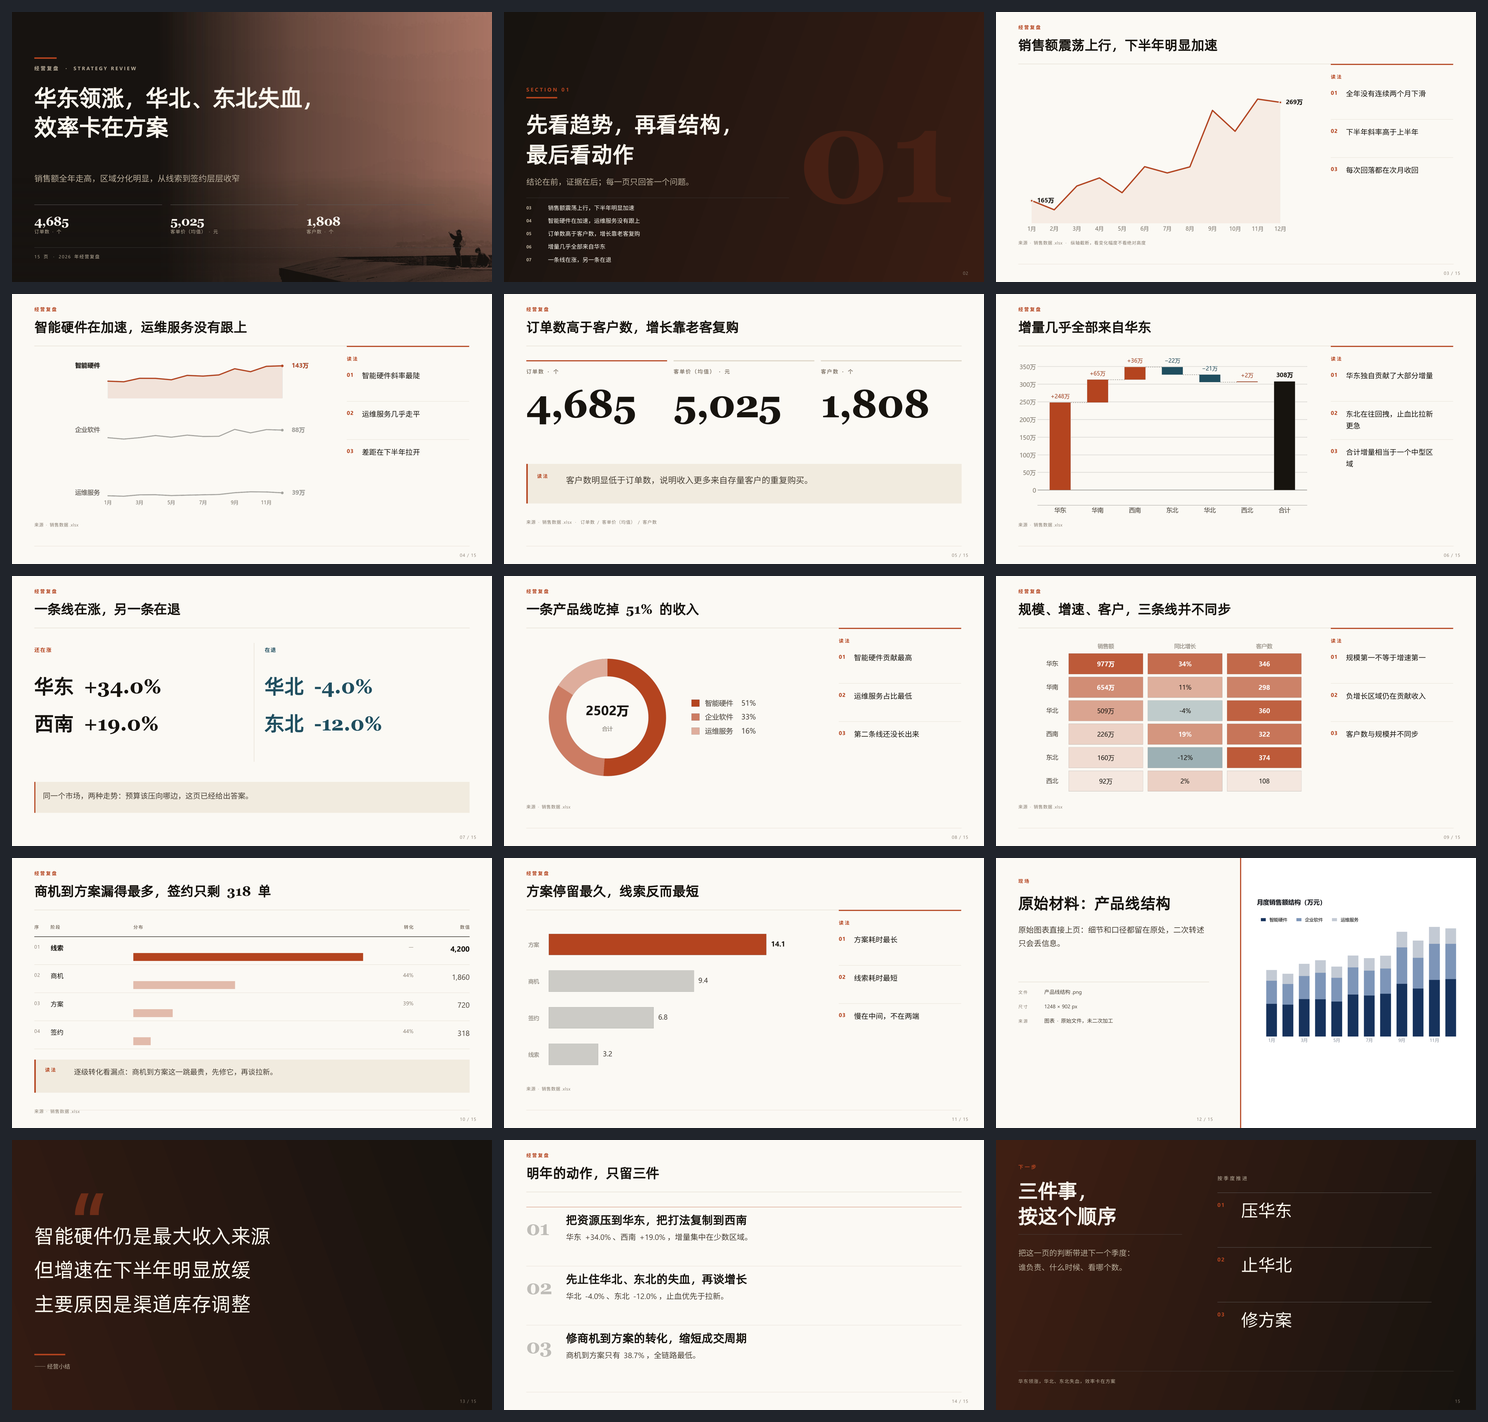
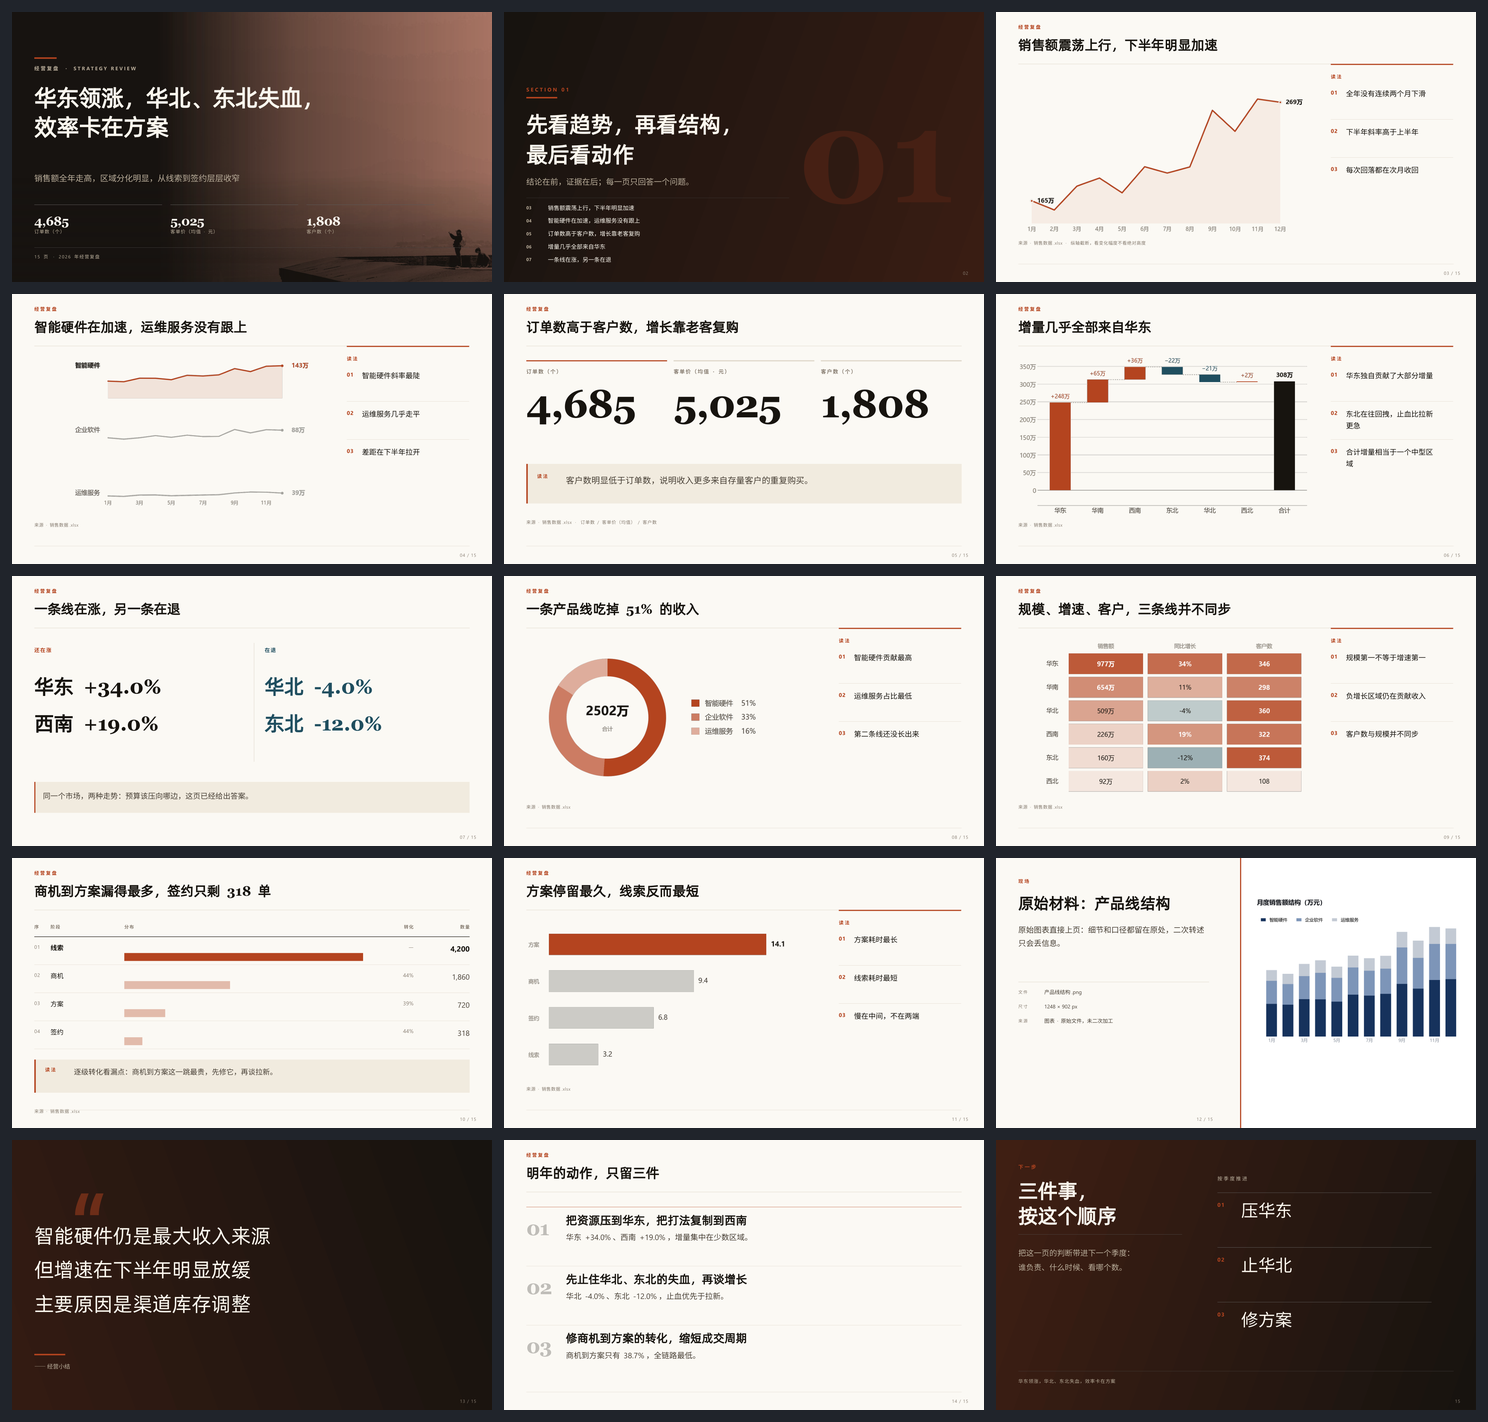
tables: two measures side by side, and a KPI footnote that carries its share

diff --git a/app/static/index.html b/app/static/index.html
@@ -773,7 +773,8 @@ async function pickIdea(idea){
   busy(true, '按这个角度重排', idea.title);
   try{
     const res = await fetch('/api/plan', {method:'POST', headers:{'Content-Type':'application/json'},
-      body: JSON.stringify({deck_title: idea.title, subtitle: idea.why, brief: idea.angle})});
+      body: JSON.stringify({deck_title: idea.title, subtitle: "",
+                            brief: `${idea.angle} ${idea.why}`})});
     const d = await res.json();
     if(!res.ok){ busy(false); toast(d.detail || '重排失败'); return; }
     apply(d); busy(false); toast('按这个角度排好了');

diff --git a/deck/render2.py b/deck/render2.py
@@ -188,6 +188,27 @@ def _wrap_clauses(text: str, width, size_pt: float) -> str:
     return "\n".join(out)
 
 
+def _top_note(f: Fact) -> str:
+    """A top name alone is trivia; a top name with its share is a finding."""
+    if not f.top:
+        return ""
+    vals = dict(f.points or [])
+    total = sum(abs(v) for v in vals.values()) or 0.0
+    share = abs(vals.get(f.top, 0.0)) / total if total else 0.0
+    return f"最高 {f.top} · {share:.0%}" if 0 < share < 0.95 else f"最高 {f.top}"
+
+
+def _label_unit(f: Fact) -> str:
+    """「销售额 · 区域（元）」reads; 「销售额 · 区域 · 元」is a parts list."""
+    unit = _unit(f)
+    if not unit:
+        return f.label
+    # 「客单价（均值）（元）」is two brackets in a row; fold the unit inside.
+    if f.label.endswith("）"):
+        return f"{f.label[:-1]} · {unit}）"
+    return f"{f.label}（{unit}）"
+
+
 def _value(v: float, unit: str | None) -> str:
     if unit == "ratio":
         return f"{v * 100:.1f}%"
@@ -272,7 +293,7 @@ def cover(prs, plan: Plan, s: Slide, facts: dict[str, Fact], theme: Theme,
                      color=_rgb(theme.dark_ink), bold=True, font="headline",
                      spacing=-0.8, wrap=False)
             add_text(slide, x, Inches(5.98), width - Inches(0.30), Inches(0.26),
-                     f"{f.label} · {_unit(f)}", theme, size=Pt(9.5),
+                     _label_unit(f), theme, size=Pt(9.5),
                      color=_rgb(theme.dark_muted), spacing=0.8)
 
     add_rect(slide, MARGIN_X, Inches(6.54), CONTENT_W, Emu(6350),
@@ -523,7 +544,7 @@ def kpi(prs, plan: Plan, s: Slide, facts: dict[str, Fact], theme: Theme,
         rule = _rgb(theme.accent if i == 0 else theme.hair)
         add_rect(slide, x, Inches(1.84), width, Emu(28575), rule)
         add_text(slide, x, Inches(2.02), width - Inches(0.20), Inches(0.24),
-                 f"{f.label} · {_unit(f)}", theme, size=Pt(10.5),
+                 _label_unit(f), theme, size=Pt(10.5),
                  color=_rgb(theme.muted), bold=True, spacing=1.6)
         number = f.number or f.value
         size = _num_fit(number, width - Inches(0.12), 78, 40)
@@ -535,7 +556,7 @@ def kpi(prs, plan: Plan, s: Slide, facts: dict[str, Fact], theme: Theme,
                      f"同比 {fmt.signed_pct(f.change)}", theme, size=Pt(12),
                      color=_rgb(theme.negative if f.change < 0 else theme.accent),
                      bold=True)
-        foot = f"最高 {f.top}" if f.top else ""
+        foot = _top_note(f)
         if foot:
             add_text(slide, x, Inches(3.98), width, Inches(0.30),
                      foot, theme, size=Pt(10.5), color=_rgb(theme.muted))
@@ -727,13 +748,22 @@ def table(prs, plan: Plan, s: Slide, facts: dict[str, Fact], theme: Theme,
     # six-row table from pushing its own reading band over the source line.
     row_h = Inches(min(0.82, max(0.46, (5.30 - 2.18) / max(len(pts), 1))))
     header_h = Inches(0.38)
-    col_rank, col_name, col_bar = 0.45, 2.30, 5.85
+    # A second measure turns "东北客户数第一" into "客户数第一、销售额第五":
+    # the claim on the slide becomes checkable on the same slide.
+    extra = facts.get(ids[1]) if len(ids) > 1 else None
+    if extra is not None:
+        names = {k for k, _ in f.points}
+        if not extra.points or any(k not in names for k, _ in extra.points):
+            extra = None
+    col_rank, col_name, col_bar = 0.45, 2.05, 4.55
     # A conversion column only means something when the rows are stages of one
     # funnel. On a ranked breakdown it turns "second biggest / biggest" into a
     # fake 96% and invites the reader to read a story that is not there.
     funnel = (f.chart == "funnel")
     col_conv = 0.95 if funnel else 0.0
     col_val, col_gap = 1.30, 0.26
+    col_extra = 1.32 if extra is not None else 0.0
+    val_x = x0 + Inches(w / PX - col_val - col_extra - (0.16 if extra is not None else 0))
 
     def cell(x, top, width, text, *, size=13, color=None, bold=False, align="left"):
         add_text(slide, x, top, width, Inches(0.30), text, theme, size=Pt(size),
@@ -753,9 +783,16 @@ def table(prs, plan: Plan, s: Slide, facts: dict[str, Fact], theme: Theme,
         add_text(slide, conv_x, y, Inches(col_conv),
                  header_h, "转化", theme, size=Pt(9), color=_rgb(theme.muted),
                  bold=True, align="right", spacing=1.2)
-    add_text(slide, x0 + Inches(w / PX - col_val), y, Inches(col_val), header_h,
-             "数值", theme, size=Pt(9), color=_rgb(theme.muted), bold=True,
+    # "数值" beside "客户数" is a riddle; name the measure the bars encode.
+    vhead = ((f.column or f.label) or "").split("按")[0].strip() or "数值"
+    add_text(slide, val_x, y, Inches(col_val), header_h,
+             vhead[:6], theme, size=Pt(9), color=_rgb(theme.muted), bold=True,
              align="right", spacing=1.2)
+    if extra is not None:
+        head2 = ((extra.column or extra.label) or "").split("按")[0].strip() or "另一项"
+        add_text(slide, x0 + Inches(w / PX - col_extra), y, Inches(col_extra),
+                 header_h, head2[:6], theme, size=Pt(9), color=_rgb(theme.muted),
+                 bold=True, align="right", spacing=1.2)
 
     y += header_h
     add_rect(slide, x0, y, w, Emu(12700), _rgb(theme.ink))
@@ -765,7 +802,7 @@ def table(prs, plan: Plan, s: Slide, facts: dict[str, Fact], theme: Theme,
     # Let the bars run all the way to the conversion column: a funnel that only
     # fills 60% of its track reads as timid.
     bar_w = (conv_x - bar_x - Inches(0.45)) if funnel else \
-        (x0 + Inches(w / PX - col_val - col_gap) - bar_x - Inches(0.45))
+        (val_x - Inches(col_gap) - bar_x - Inches(0.30))
     has_neg = any(v < 0 for _, v in pts)
 
     for i, (name, v) in enumerate(pts, 1):
@@ -794,10 +831,16 @@ def table(prs, plan: Plan, s: Slide, facts: dict[str, Fact], theme: Theme,
             add_text(slide, conv_x, top - Inches(0.03),
                      Inches(col_conv), Inches(0.30), conv, theme, size=Pt(11),
                      color=_rgb(theme.muted), align="right")
-        add_text(slide, x0 + Inches(w / PX - col_val), top - Inches(0.03),
+        add_text(slide, val_x, top - Inches(0.03),
                  Inches(col_val), Inches(0.30), _value(v, f.unit),
                  theme, size=Pt(15), color=_rgb(theme.ink if i == 1 else theme.ink2),
                  bold=(i == 1), align="right")
+        if extra is not None:
+            v2 = dict(extra.points).get(name)
+            add_text(slide, x0 + Inches(w / PX - col_extra), top - Inches(0.03),
+                     Inches(col_extra), Inches(0.30),
+                     _value(v2, extra.unit) if v2 is not None else "—",
+                     theme, size=Pt(13), color=_rgb(theme.ink2), align="right")
         y += row_h
         add_rect(slide, x0, y, w, Emu(6350), _rgb(theme.hair))
 

diff --git a/tests/test_qa.py b/tests/test_qa.py
@@ -66,3 +66,40 @@ class RenderTest(unittest.TestCase):
 
 if __name__ == "__main__":
     unittest.main()
+
+
+DATA = Path(__file__).resolve().parent.parent / "samples" / "data"
+
+
+class TwoMeasureTableTest(unittest.TestCase):
+    """A comparison claim needs both numbers on the page."""
+
+    @classmethod
+    def setUpClass(cls) -> None:
+        from deck import ingest, compute
+        cls.bundle = ingest.load(DATA)
+        cls.facts = compute.extract(cls.bundle)
+
+    def test_second_fact_becomes_a_column(self):
+        import tempfile
+        from pathlib import Path
+        from deck.plan import Plan, Slide
+        from pptx import Presentation
+        money = next(f for f in self.facts if f.unit == "money" and len(f.points) >= 4)
+        count = next(f for f in self.facts if f.unit == "count" and len(f.points) >= 4
+                     and {k for k, _ in f.points} == {k for k, _ in money.points})
+        plan = Plan(deck_title="d", subtitle="", slides=[
+            Slide(layout="table", title="两边一起看", fact=f"{money.id},{count.id}"),
+            Slide(layout="closing", title="收尾", bullets=["一", "二"]),
+        ])
+        with tempfile.TemporaryDirectory() as td:
+            out = Path(td) / "d.pptx"
+            from deck import render2
+            render2.build(plan, self.facts, {}, out, theme="editorial")
+            prs = Presentation(str(out))
+            text = "\n".join(sh.text_frame.text for sl in prs.slides
+                             for sh in sl.shapes if sh.has_text_frame)
+        vhead = (money.column or money.label).split("按")[0].strip()[:6]
+        self.assertIn(vhead, text)
+        head = (count.column or count.label).split("按")[0].strip()[:6]
+        self.assertIn(head, text)

diff --git a/deck/review.py b/deck/review.py
@@ -77,6 +77,27 @@ def _fact_slides(slides: list[Slide], facts: list[Fact]) -> list[Finding]:
     return out
 
 
+def _fact_reuse(slides: list[Slide]) -> list[Finding]:
+    """One fact can carry a page; it cannot carry the deck.
+
+    A model that binds region sales to a KPI, a bar chart and a screenshot of
+    the same chart has written three pages and said one thing. Two is the
+    limit: a headline number may legitimately return in the close.
+    """
+    seen: dict[str, list[int]] = {}
+    for i, s in enumerate(slides, 1):
+        for fid in [p for p in (s.fact or "").replace(" ", "").split(",") if p]:
+            seen.setdefault(fid, []).append(i)
+    out: list[Finding] = []
+    for fid, pages in seen.items():
+        if len(pages) > 2:
+            out.append(Finding(
+                "warn", pages[2],
+                f"{fid} 已经出现在第 {'、'.join(map(str, pages[:2]))} 页，"
+                f"这一页又用了同一条事实；换一条证据，或把两页并成一页。"))
+    return out
+
+
 def _bullets(slides: list[Slide]) -> list[Finding]:
     out: list[Finding] = []
     for i, s in enumerate(slides, 1):
@@ -126,6 +147,7 @@ def review(plan: Plan, facts: list[Fact]) -> list[Finding]:
             out.append(bad)
     out += _fact_slides(slides, facts)
     out += _duplicate_titles(slides)
+    out += _fact_reuse(slides)
     out += _layout_runs(slides)
     out += _bullets(slides)
     out += _shape(slides)

diff --git a/tests/test_review.py b/tests/test_review.py
@@ -57,3 +57,27 @@ class ReviewTest(unittest.TestCase):
 
 if __name__ == "__main__":
     unittest.main()
+
+
+class FactReuseTest(unittest.TestCase):
+    """One fact can carry a page; it cannot carry the deck."""
+
+    def test_three_pages_on_one_fact_raise_a_warning(self):
+        from deck.plan import Plan, Slide
+        p = Plan(deck_title="d", subtitle="", slides=[
+            Slide(layout="chart", title="一", fact="f1"),
+            Slide(layout="kpi_row", title="二", fact="f1"),
+            Slide(layout="table", title="三", fact="f1"),
+        ])
+        findings = review.review(p, [])
+        self.assertTrue(any("f1" in f.text and f.level == "warn" for f in findings))
+
+    def test_two_pages_on_one_fact_are_fine(self):
+        from deck.plan import Plan, Slide
+        p = Plan(deck_title="d", subtitle="", slides=[
+            Slide(layout="chart", title="一", fact="f1"),
+            Slide(layout="chart", title="二", fact="f2"),
+            Slide(layout="table", title="三", fact="f1"),
+        ])
+        findings = review.review(p, [])
+        self.assertFalse(any("已经出现在" in f.text for f in findings))

diff --git a/tests/test_agent.py b/tests/test_agent.py
@@ -280,3 +280,24 @@ class SelfReviewTest(unittest.TestCase):
         result = agent.plan(self.bundle, self.facts, client=fake)
         self.assertTrue(any("数字对不上" in line for line in result.log))
         self.assertEqual(result.plan.slides[1].title, "2024")
+
+
+class SubtitleTest(unittest.TestCase):
+    """Planning scaffolding must never reach a slide."""
+
+    @classmethod
+    def setUpClass(cls) -> None:
+        cls.bundle = ingest.load(DATA)
+        cls.facts = compute.extract(cls.bundle)
+
+    def test_a_subtitle_that_names_facts_is_dropped(self):
+        fake = Fake([outline()])
+        result = agent.plan(self.bundle, self.facts, client=fake,
+                            subtitle="靠 f13、f15、f17 三条事实咬合站得住")
+        self.assertNotIn("f13", result.plan.subtitle or "")
+
+    def test_a_real_subtitle_survives(self):
+        fake = Fake([outline()])
+        result = agent.plan(self.bundle, self.facts, client=fake,
+                            subtitle="2026 年经营复盘")
+        self.assertEqual(result.plan.subtitle, "2026 年经营复盘")

diff --git a/deck/agent.py b/deck/agent.py
@@ -23,6 +23,7 @@ check, so it has to be produced by counting what actually happened.
 
 from __future__ import annotations
 
+import re
 from dataclasses import dataclass, field
 
 from . import compose, review as reviewmod, verify
@@ -101,6 +102,11 @@ def plan(bundle: Bundle, facts: list[Fact], ask: str = "", *, slides: int = 0,
         return AgentResult(plan=compose.draft_text(bundle), planner="offline",
                            log=["没有数据表，按文档出稿"])
 
+    # A subtitle that talks about fact ids is planning scaffolding, not a
+    # sentence a room should read. It arrives that way when the UI passes an
+    # idea's justification straight through; drop it and let the model write.
+    if subtitle and re.search(r"\bf\d+\b", subtitle):
+        subtitle = ""
     fallback = compose.draft(bundle, facts, deck_title=deck_title, subtitle=subtitle)
     if client is None:
         return AgentResult(plan=fallback, planner="offline", log=["未配置模型，使用离线规划"])
